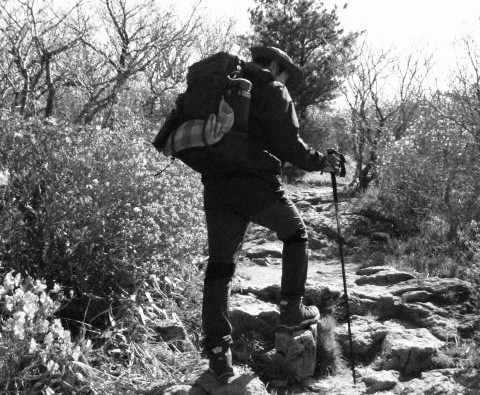
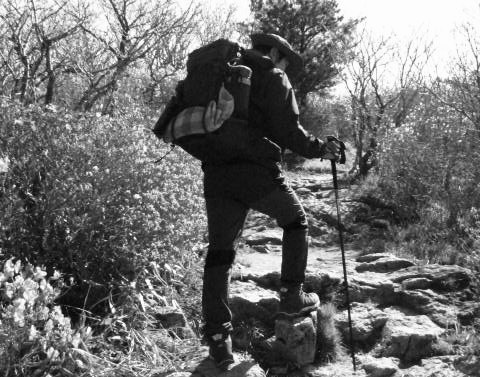
feat(nav)+design: 사이드바 상단 고정 스크롤 + 프로필 사진·여백 조정 (#307)
메뉴 스크롤 시 프로필·펼치기 도구·❖ Knowledge Graph 고정, 그 아래
트리만 #nav-scroll 내부 스크롤(데스크톱·모바일 드로어 공통, 스크롤바
숨김 유지). '#navigation > ul' 셀렉터군 :is() 확장, Work Log 하단
싱크 #nav-scroll > ul 이전, 고정부 flex:none. 프로필 사진 전신 한도
타이트 밴드(480x377)+좌우 패딩 6px, 고정 영역 사이 여백 압축(스크롤
영역 +30px). ?v: app.js 30·style.css 31·profile.jpg 6.

검증: CDP 실렌더(고정·스크롤·푸터 하단 밀착 — 데스크톱/모바일),
validate_all ERROR 0, check_cachebuster 통과, CI 2잡 통과.
Work Log: wl-20260725-features 신규 + design 로그 갱신.

Claude-Session: https://claude.ai/code/session_01DWQrPrzFAzRXwPJJYwL6y9

diff --git a/style.css b/style.css
@@ -209,7 +209,7 @@
                 flex: none;
                 height: 100vh;
                 height: 100dvh;
-                overflow-y: auto;
+                overflow: hidden;   /* the tree scrolls inside #nav-scroll */
                 padding: 10px 8px 0 24px;
                 border-right: none;   /* the card border does the separating */
                 transition: margin-left 0.3s cubic-bezier(0.22, 1, 0.36, 1),
@@ -325,7 +325,9 @@
             border-right: 1px solid var(--border);
         }
         #profile{
-            padding: 20px 18px;
+            /* Slim sides (photo hugs the menu width) and tight rows — the
+               pinned header grew, so every gap here is kept minimal. */
+            padding: 10px 6px 8px;
             border-bottom: 1px dashed var(--border);
         }
         /* The whole profile block (photo + tagline) links to the About page. */
@@ -345,7 +347,7 @@
         }
         /* Playful line under the photo, with an arrow that keeps flying up-right. */
         #profile-tagline{
-            margin: 11px 2px 0;
+            margin: 6px 2px 0;
             display: flex;
             align-items: center;
             justify-content: center;
@@ -1441,17 +1443,38 @@
 
         /* ---- Navigation tree ---- */
         #navigation{
-            padding: 20px 20px 20px 12px;   /* tighter left edge */
+            padding: 10px 20px 20px 12px;   /* tight top: pinned header economy */
             /* Fill the space above the sticky footer so the Work Log
                branch can sink to the very bottom of the menu area. */
-            flex: 1 0 auto;
+            flex: 1 1 auto;
+            min-height: 0;
             display: flex;
             flex-direction: column;
         }
+        /* Everything above #nav-scroll (nav tools + pinned Knowledge Graph
+           link) stays fixed; only the tree below scrolls, scrollbar hidden. */
         #navigation > ul{
+            flex: none;   /* the pinned Knowledge Graph row keeps its height */
+        }
+        /* Pinned Knowledge Graph link: tighter rhythm than the tree's
+           top-level rows — the fixed header should spend pixels sparingly. */
+        #navigation > ul > li > a{
+            margin: 4px 0 2px;
+        }
+        #nav-scroll{
+            flex: 1 1 auto;
+            min-height: 0;
+            overflow-y: auto;
+            scrollbar-width: none;
+        }
+        #nav-scroll::-webkit-scrollbar{
+            display: none;
+        }
+        #nav-scroll > ul{
             flex: 1;
             display: flex;
             flex-direction: column;
+            min-height: 100%;
         }
         /* Backdrop behind the mobile drawer (only shown on small screens). */
         #nav-backdrop{
@@ -1476,7 +1499,7 @@
            bottom), so their margins no longer collapse with the titles' —
            zero them and let the title margins (10 + 12) carry the original
            22px rhythm. */
-        #navigation > ul > li{
+        :is(#navigation, #nav-scroll) > ul > li{
             margin: 0;
         }
         #navigation li a{
@@ -1558,7 +1581,7 @@
            the very bottom of the menu area, just above the day/night foot.
            When the tree grows past the viewport the auto margin collapses
            and the padding keeps a minimum gap. */
-        #navigation > ul > li.nav-branch[data-cat="Work Log"]{
+        :is(#navigation, #nav-scroll) > ul > li.nav-branch[data-cat="Work Log"]{
             margin-top: auto;
             padding-top: 24px;
         }
@@ -1608,7 +1631,7 @@
         }
         /* Top-level standalone links (e.g. 지식 코스모스) read like the
            category titles beside them. */
-        #navigation > ul > li > a{
+        :is(#navigation, #nav-scroll) > ul > li > a{
             display: block;
             /* 12px top: the nav ul is a flex column (Work Log pinning), so
                margins no longer collapse — 12 + the previous row's 10px
@@ -1631,7 +1654,7 @@
         }
         /* Level-0 category titles: the only prominent tier. (12px top —
            see the top-level link rule above for the flex/no-collapse math.) */
-        #navigation > ul > li.nav-branch > .nav-title{
+        :is(#navigation, #nav-scroll) > ul > li.nav-branch > .nav-title{
             margin: 12px 0 10px;
             padding: 0 0 8px;
             border-bottom: var(--nav-line-width) var(--nav-line-style) var(--border);
@@ -1643,11 +1666,11 @@
         }
         /* Monochrome intensity ramp — folder titles fade as they nest deeper,
            so each level reads clearly (size stays uniform; L3+ uses the base). */
-        #navigation > ul > li > ul > li.nav-branch > .nav-title{            /* L1 */
+        :is(#navigation, #nav-scroll) > ul > li > ul > li.nav-branch > .nav-title{            /* L1 */
             color: var(--text);
             font-weight: 700;
         }
-        #navigation > ul > li > ul > li > ul > li.nav-branch > .nav-title{  /* L2 */
+        :is(#navigation, #nav-scroll) > ul > li > ul > li > ul > li.nav-branch > .nav-title{  /* L2 */
             color: color-mix(in srgb, var(--text) 58%, var(--muted));
             font-weight: 700;
         }
@@ -1656,9 +1679,10 @@
            rest, wakes on hover, accent ink on the active segment. */
         .nav-tools{
             display: flex;
+            flex: none;   /* pinned header row — never squeezed by #navigation's flex */
             /* Sit just inside the category dividers' span, centered. */
             width: calc(100% - 16px);
-            margin: 0 auto 10px;   /* +first-row 12px = the original 22px gap */
+            margin: 0 auto 6px;
             border: 1px solid var(--border);
             border-radius: 8px;
             background: color-mix(in srgb, var(--bg-alt) 72%, transparent);
@@ -2583,7 +2607,7 @@
                 max-width: 80%;
                 background: var(--bg);
                 border-right: 1px solid var(--border);
-                overflow-y: auto;
+                overflow: hidden;   /* the tree scrolls inside #nav-scroll */
                 transform: translateX(-100%);
                 transition: transform 0.25s ease;
                 z-index: 1000;

diff --git a/app.js b/app.js
@@ -1211,7 +1211,7 @@ function getPassword(){
 // Show/hide top-level nav categories by title (hidden = list of titles).
 function applyCategoryVisibility(hidden){
     hidden = hidden || [];
-    document.querySelectorAll('#navigation > ul > li.nav-branch[data-cat]').forEach(function(li){
+    document.querySelectorAll('#navigation li.nav-branch[data-cat]').forEach(function(li){
         var off = hidden.indexOf(li.getAttribute('data-cat')) !== -1;
         li.style.display = off ? 'none' : '';
     });
@@ -1395,7 +1395,7 @@ function showSettings(){
         return '<option value="' + val + '"' + (val === cur ? ' selected' : '') + '>' + label + '</option>';
     }
     var cats = [].map.call(
-        document.querySelectorAll('#navigation > ul > li.nav-branch[data-cat]'),
+        document.querySelectorAll('#navigation li.nav-branch[data-cat]'),
         function(li){ return li.getAttribute('data-cat'); });
     // Working state for the category transfer list (left=전체, right=노출).
     SETTINGS_CATS = { all: cats,
@@ -1885,7 +1885,13 @@ App.data.loadList().then(function(tree){
           +     '<path d="m7 4 5 5 5-5"/><path d="m7 20 5-5 5 5"/>'
           +   '</svg>' + STR('collapseAll') + '</button>'
           + '</div>'
-          + renderNodes(tree, []);
+          // Pinned header: top-level route-only entries (e.g. ❖ Knowledge
+          // Graph) stay fixed with the profile/tools; the tree below gets
+          // its own scroll area (#nav-scroll) so scrolling never hides them.
+          + renderNodes(tree.filter(function(n){ return n.route && !n.children; }), [])
+          + '<div id="nav-scroll">'
+          + renderNodes(tree.filter(function(n){ return !(n.route && !n.children); }), [])
+          + '</div>';
         applyCategoryVisibility(loadSettings().hiddenCats);   // nav now exists
         document.querySelector('#more').innerHTML = renderMore();
         refreshRecentDocs();   // reorder by last-modified once dates load

diff --git a/index.html b/index.html
@@ -45,7 +45,7 @@
           href="https://cdn.jsdelivr.net/gh/orioncactus/pretendard@v1.3.9/dist/web/variable/pretendardvariable.min.css">
     <!-- ?v= cache-buster: bump on any change to these files so browsers
          (esp. iOS Safari, which caches past max-age) fetch the new version. -->
-    <link rel="stylesheet" href="style.css?v=30">
+    <link rel="stylesheet" href="style.css?v=31">
     <link rel="stylesheet" href="folder-dates.css?v=2">
     <script src="colors.js?v=2"></script>
     <script src="graphviews.js?v=2"></script>
@@ -63,7 +63,7 @@
         <aside id="sidebar">
             <div id="profile">
                 <a id="profile-link" href="#!about" aria-label="About — 소개 페이지로 이동">
-                    <img id="profile-img" src="profile.jpg?v=5" alt="Profile"
+                    <img id="profile-img" src="profile.jpg?v=6" alt="Profile"
                          onerror="if(this.src.indexOf('profile.svg') === -1){ this.src = 'profile.svg'; }">
                     <p id="profile-tagline"><span class="ptl-text">Wanna fly with me</span> <span class="pf-arrow" aria-hidden="true">&#8599;</span></p>
                 </a>
@@ -128,7 +128,7 @@
 
 
     </script>
-    <script src="app.js?v=29"></script>
+    <script src="app.js?v=30"></script>
     <script src="folder-dates.js?v=1"></script>
     <script src="music.js?v=2"></script>
 </body>
